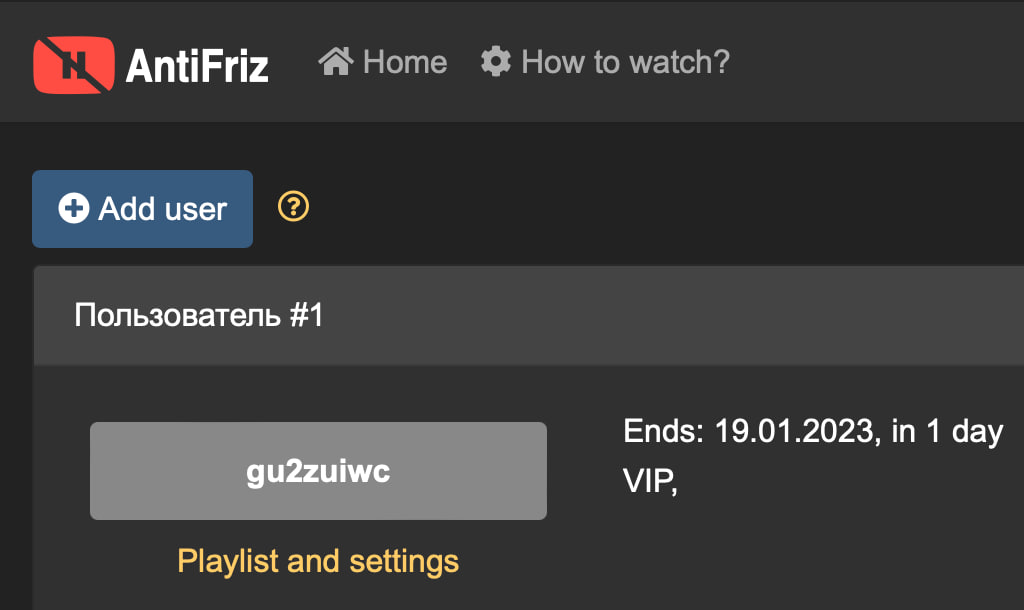
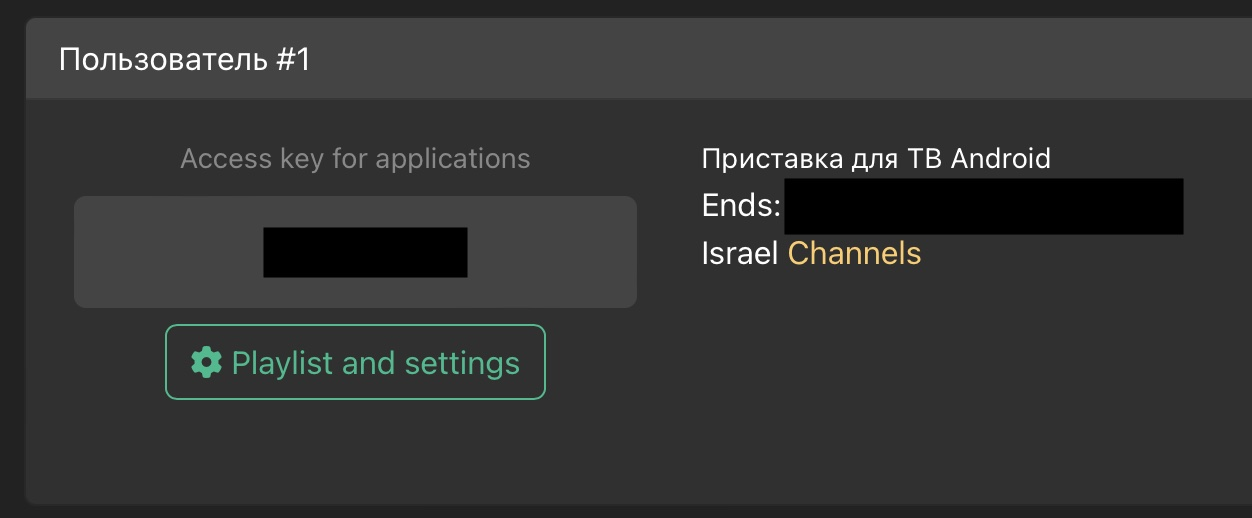
Updated Antifriz setup

diff --git a/index.html b/index.html
@@ -196,10 +196,11 @@
           <li>היכנסו לאתר Antifriz לתוך הגדרות החשבון שלכם. תוודאו שבפינה הימנית העליונה לחצתם על דגל ארה״ב כדי שהמידע יופיע באנגלית.</li>
           <li>לחצו על Playlist and Settings.</li>
             <img src="img/antifriz-home-1.jpg" alt="Add playlist" class="inline"/><br>
-          <li>בדף הזה, בצד ימין של המסך, בחר את האופציה Download playlist כדי להוריד את הקובץ כפי שמסומן בתמונה.</li>
+          <li>בחלק העליון של המסך, היכנסו ל-Smart TV.</li>
+            <img src="img/antifriz-home-2.jpg" alt="Add playlist" class="inline"/><br>
+          <li>בתוך Smart TV, היכנסו ל-Android TV, ולאחר מכן לתוך TiviMate. לא לדאוג! זה לא קשור לאיזה נגן אתם משתמשים בו, זה רק כדי למצוא את הטוקן של השירות שלכם!!!</li>
+          <li>באזור של ההגדרות, תחת Xtream Codes, חפשו את הסיסמה שלכם, כפי שמסומנת בכחול בתמונה. זה הטוקן שלכם!</li>
             <img src="img/antifriz-home-3.jpg" alt="Add playlist" class="inline"/><br>
-          <li>לאחר שהורדתם את הקובץ למחשב שלכם, פתחו אותו באמצעות תוכנת עיבוד טקסט כלשהי.</li>
-          <li>בתוך הקובץ תמצאו כמות גדולה של שורות שנראות מאד דומה לנוסח הבא: <br><code>http://bethoven.af-stream.com:1600/s/TOKEN/CHANNEL-NAME/video.m3u8</code>. שימו לב שהפרמטר CHANNEL-NAME יהיה שונה עבור כל ערוץ. הפרמטר TOKEN יהיה זהה בכל השורות וזהו הפרמטר שאתם צריכים עבור השלב הבא!</li>
           <li>כתובת ה-DikoPlus תלויה ברצונכם לקבל לוגואים על רקע קהה או על רקע בהיר. בחרו את האופצייה המועדפת עליכם מאחת מהאופציות המוצגות פה.</li>
           <ol>
             <li>עבור לוגואים רגילים (לוגואים בהירים ללא רקע), כתובת השירות שלכם היא: <code>https://dikoplus.cyclic.app/antifriz?p=TOKEN</code></li>
